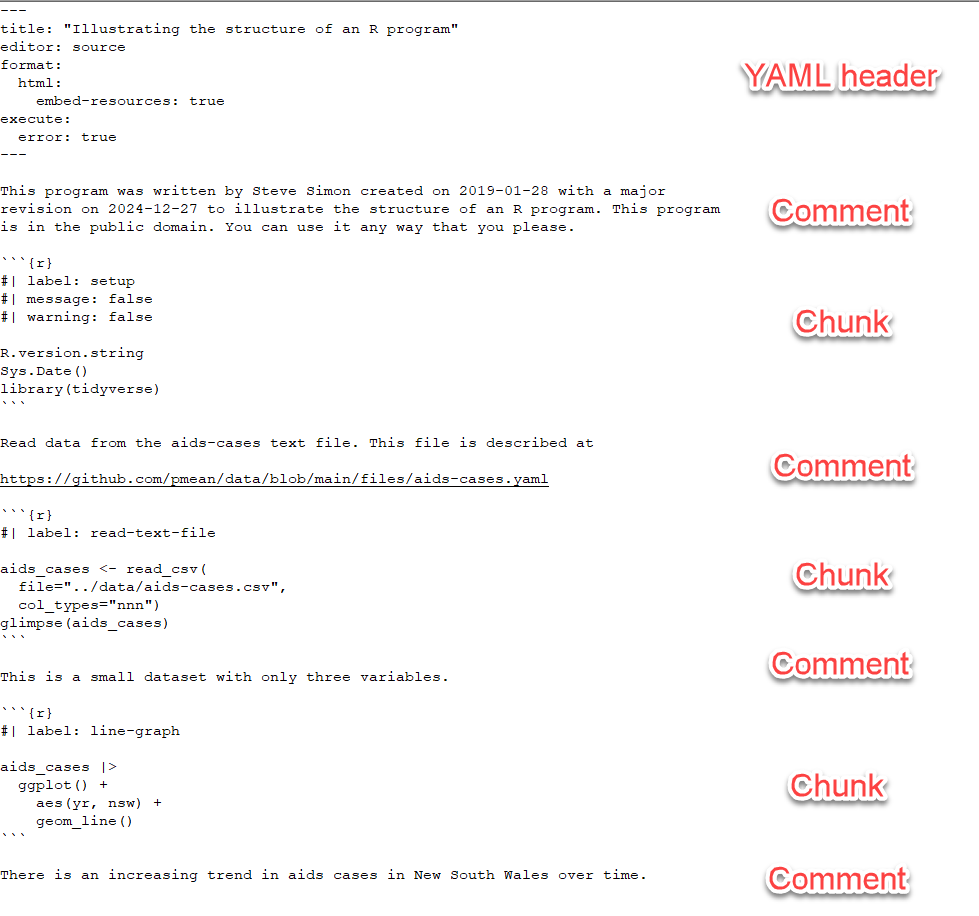
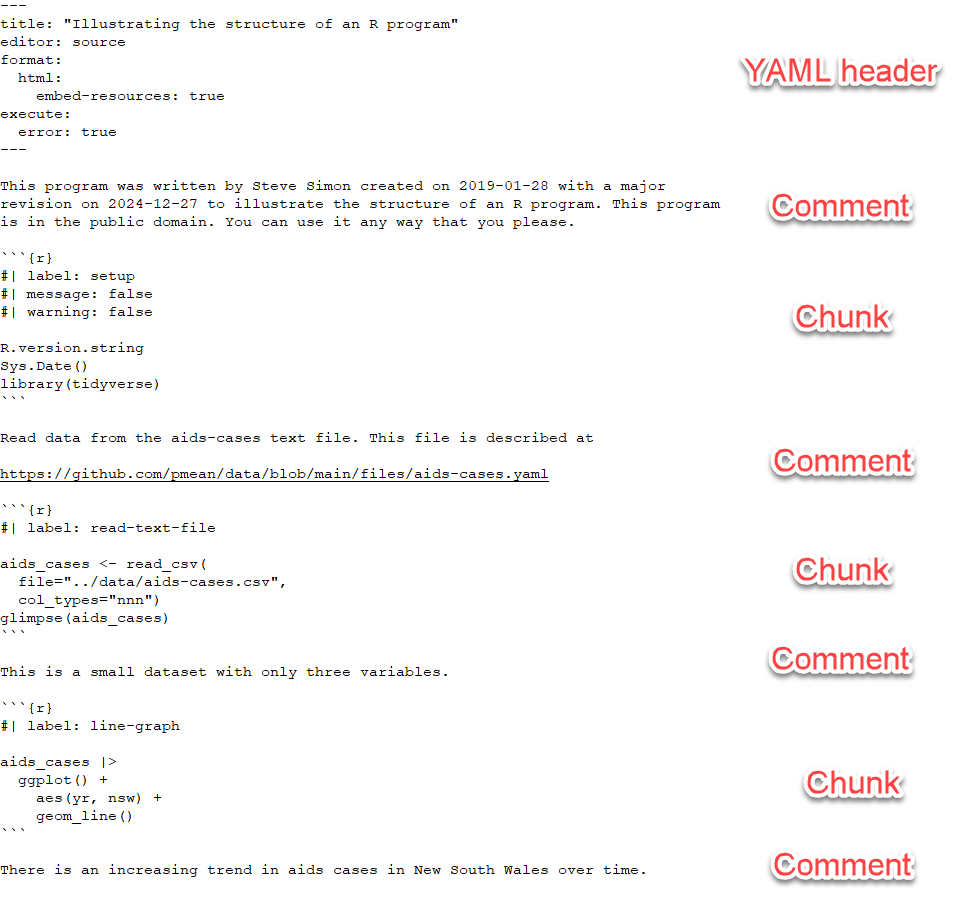
Added images to _r-01-04

diff --git a/introduction-to-r/01/src/simon-5505-01-small-program.html b/introduction-to-r/01/src/simon-5505-01-small-program.html
@@ -3038,7 +3038,7 @@ vertical-align: -.125em;
 
 </header>
 
-<p>This program was written by Steve Simon created on 2019-01-28 with a major revision on 2024-12-27 to illustrate the structure of an R program. This program is in the public domain. You can use it any way that you please.</p>
+<p>This program was written by Steve Simon and created on 2019-01-28 with a major revision on 2024-12-27. It is used to illustrate the structure of an R program. This program is in the public domain. You can use it any way that you please.</p>
 <div class="cell">
 <div class="sourceCode cell-code" id="cb1"><pre class="sourceCode r code-with-copy"><code class="sourceCode r"><span id="cb1-1"><a href="#cb1-1" aria-hidden="true" tabindex="-1"></a>R.version.string</span></code><button title="Copy to Clipboard" class="code-copy-button"><i class="bi"></i></button></pre></div>
 <div class="cell-output cell-output-stdout">
@@ -3065,7 +3065,17 @@ $ nsw &lt;dbl&gt; 1, 3, 28, 79, 158, 236, 259
 $ vic &lt;dbl&gt; 0, 3, 7, 11, 36, 74, 107</code></pre>
 </div>
 </div>
-<p>This is a small dataset with only three variables.</p>
+<p>This is a small dataset with only three variables. Now let’s draw a line graph.</p>
+<div class="cell">
+<div class="sourceCode cell-code" id="cb8"><pre class="sourceCode r code-with-copy"><code class="sourceCode r"><span id="cb8-1"><a href="#cb8-1" aria-hidden="true" tabindex="-1"></a>aids_cases <span class="sc">|&gt;</span></span>
+<span id="cb8-2"><a href="#cb8-2" aria-hidden="true" tabindex="-1"></a>  <span class="fu">ggplot</span>() <span class="sc">+</span></span>
+<span id="cb8-3"><a href="#cb8-3" aria-hidden="true" tabindex="-1"></a>    <span class="fu">aes</span>(yr, nsw) <span class="sc">+</span></span>
+<span id="cb8-4"><a href="#cb8-4" aria-hidden="true" tabindex="-1"></a>    <span class="fu">geom_line</span>()</span></code><button title="Copy to Clipboard" class="code-copy-button"><i class="bi"></i></button></pre></div>
+<div class="cell-output-display">
[1 lines of base64/hex data omitted]
+</div>
+</div>
+<p>There is an increasing trend in aids cases in New South Wales over time.</p>
 
 </main>
 <!-- /main column -->
